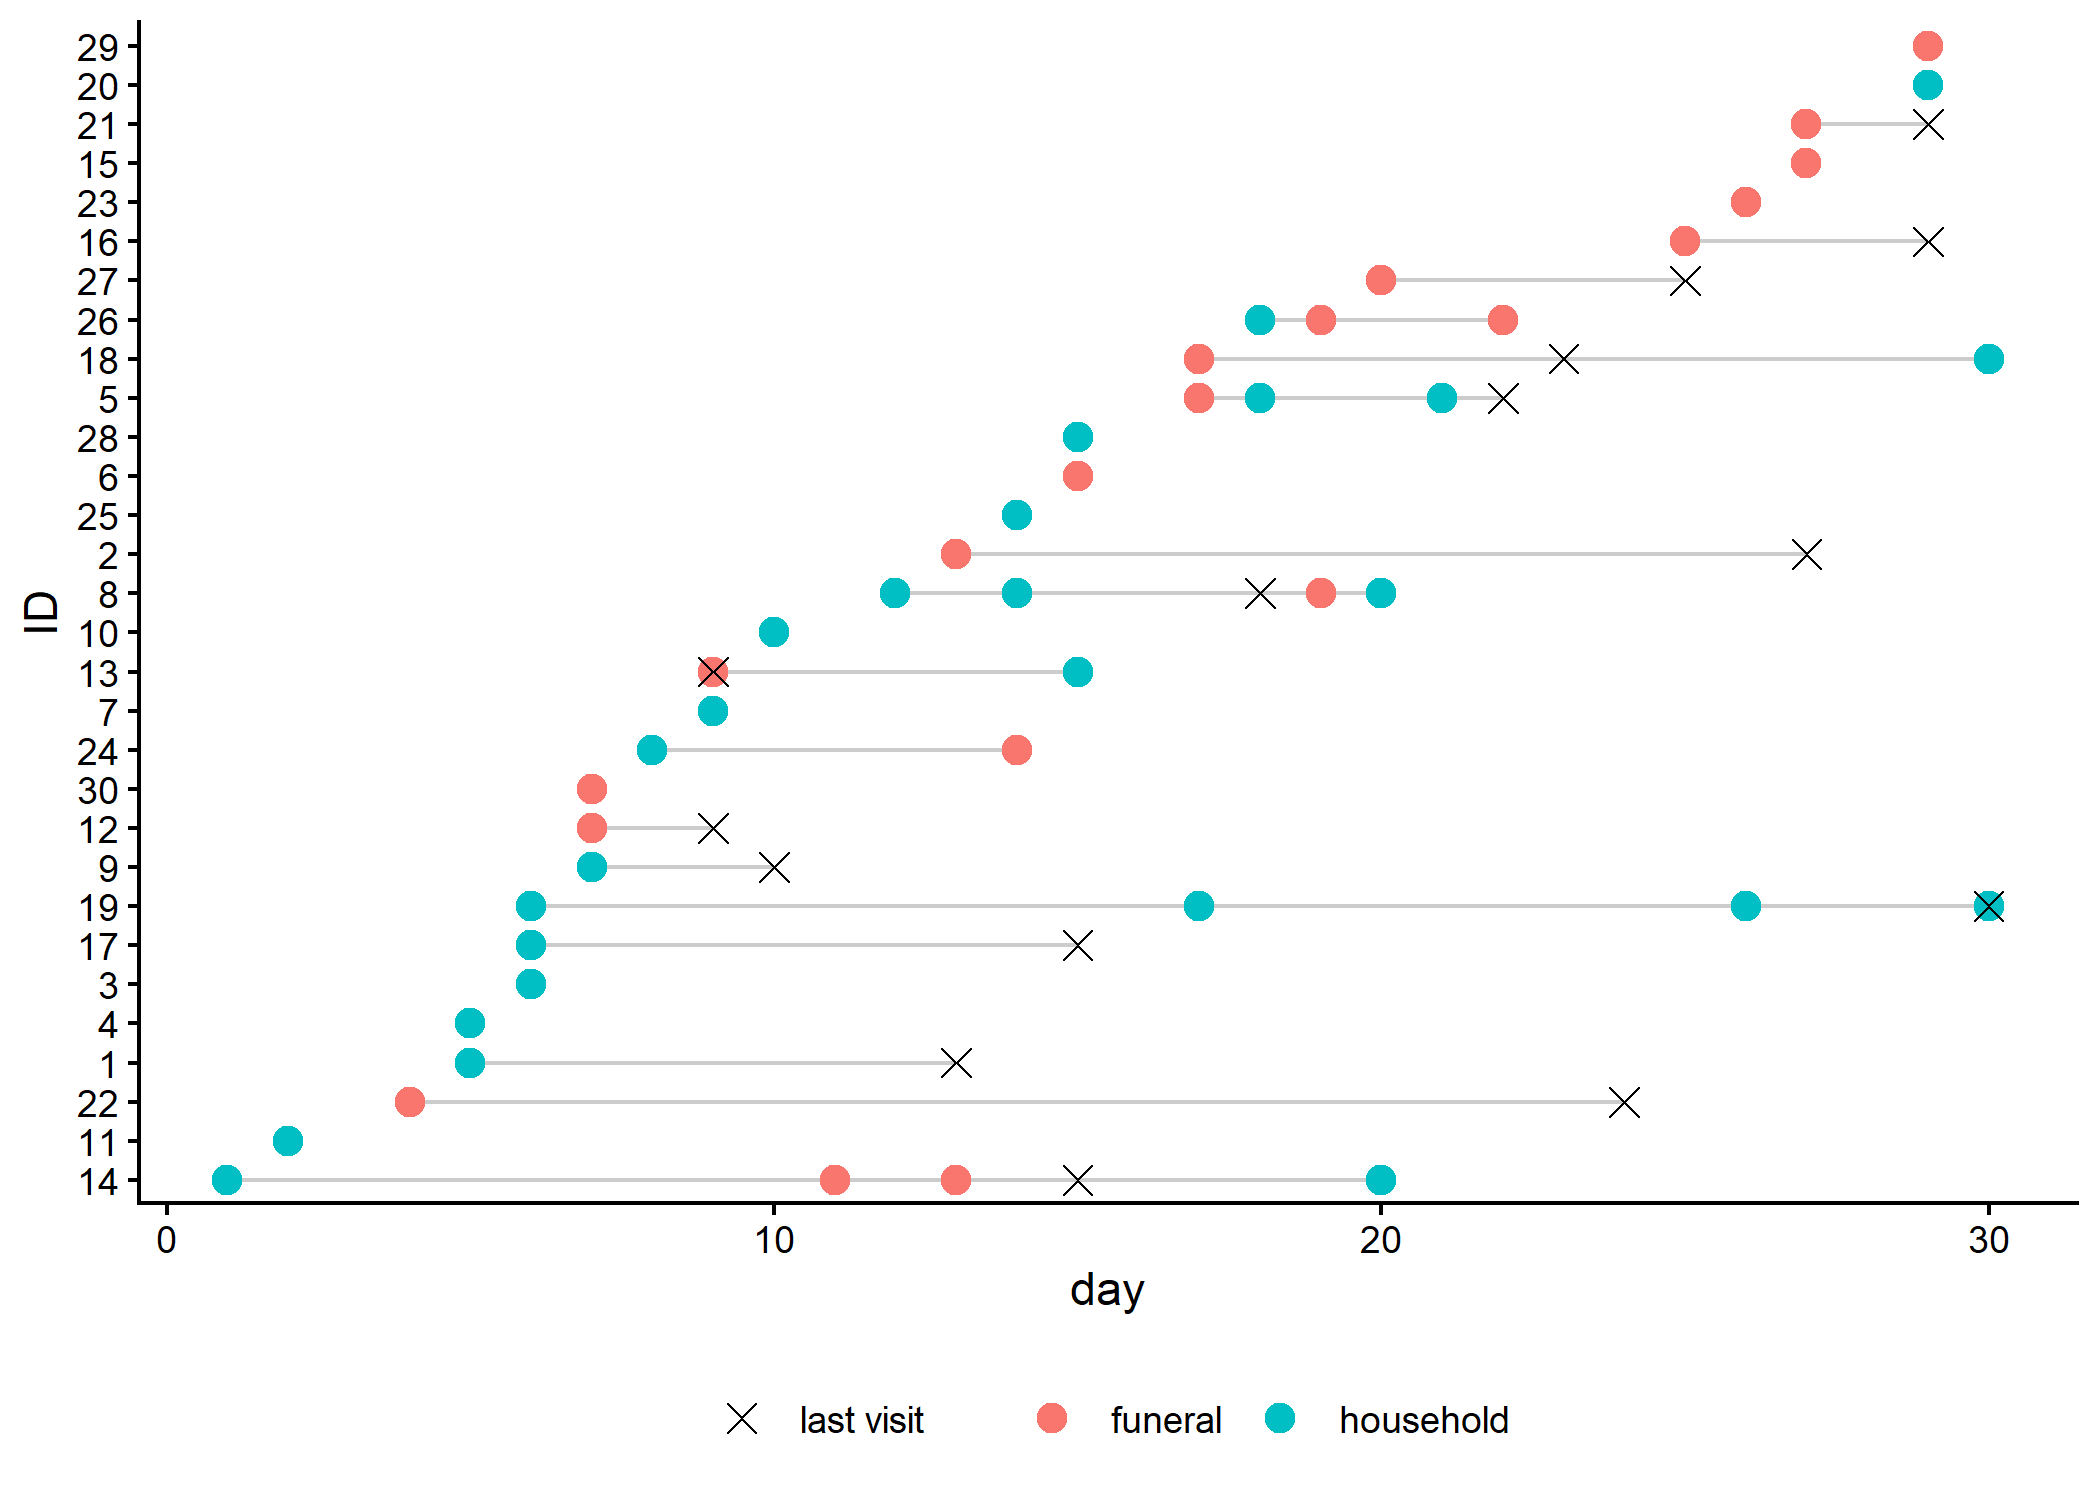
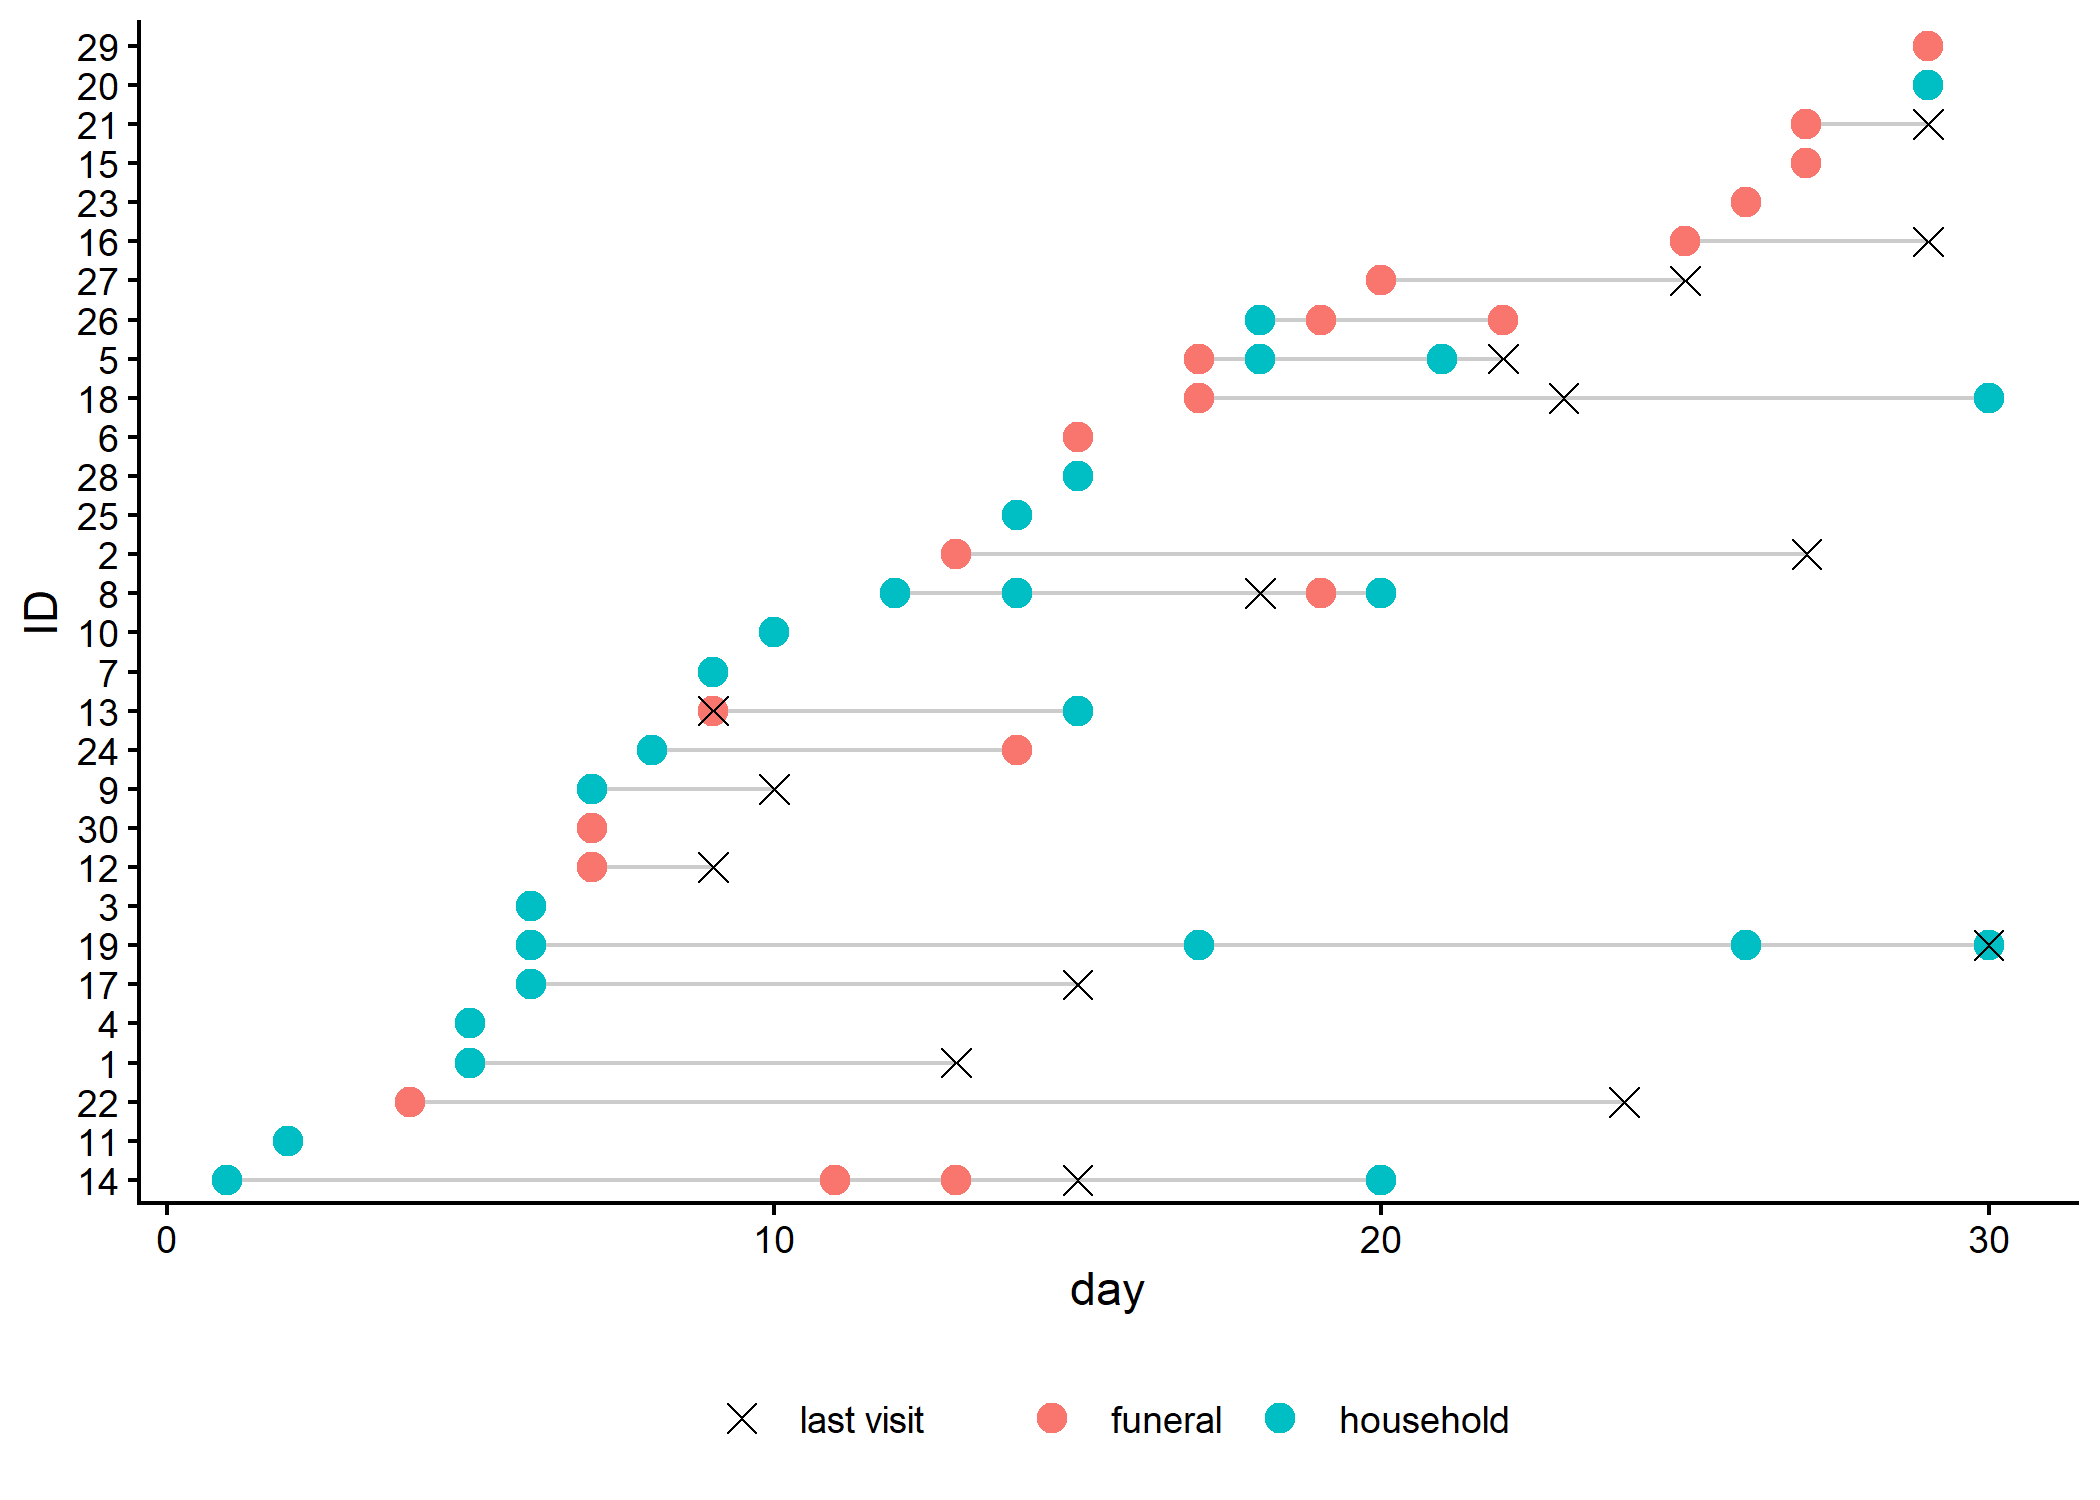
updated readme for new version of ctscore

diff --git a/README.md b/README.md
@@ -106,11 +106,11 @@ x <- make_ctdata(
 head(x)
 #>   contact_id date      type   location last_visit p_infection
 #> 1          1    5 household   new_city         13         0.2
-#> 2          2   13   funeral   new_city         27         0.9
-#> 3          3    6 household local_town         NA         0.2
-#> 4          4    5 household   new_city         NA         0.2
-#> 5          5   17   funeral    hotspot         22         0.9
-#> 6          5   18 household    hotspot         22         0.2
+#> 2         10   10 household local_town         NA         0.2
+#> 3         11    2 household   new_city         NA         0.2
+#> 4         12    7   funeral    hotspot          9         0.9
+#> 5         13    9   funeral local_town          9         0.9
+#> 6         13   15 household local_town          9         0.2
 class(x)
 #> [1] "ctdata"     "data.frame"
 ```
@@ -152,33 +152,72 @@ current date is day 31 (again, this could be a real date in practice, in
 YYYY-MM-DD format):
 
 ``` r
-score <- ctscore(x, incub, t = 31)
+score <- ctscore(x, incub, current_date = 31)
 score
-#>          1          2          3          4          5          6          7 
-#> 0.19854218 0.60000140 0.19969489 0.19991568 0.79604599 0.84927722 0.19844927 
-#>          8          9         10         11         12         13         14 
-#> 0.83344774 0.19871356 0.19772316 0.20028407 0.89463558 0.90958819 0.97174690 
-#>         15         16         17         18         19         20         21 
-#> 0.19870824 0.22232470 0.19754793 0.74628901 0.10752694 0.01314619 0.14895995 
+#>          1         10         11         12         13         14         15 
+#> 0.19854218 0.19772316 0.20028407 0.89463558 0.90958819 0.97174690 0.19870824 
+#>         16         17         18         19          2         20         21 
+#> 0.22232470 0.19754793 0.74628901 0.10752694 0.60000140 0.01314619 0.14895995 
 #>         22         23         24         25         26         27         28 
 #> 0.79589928 0.28480854 0.88870951 0.19158821 0.82388155 0.62067571 0.18872827 
-#>         29         30 
-#> 0.05915784 0.89728078
+#>         29          3         30          4          5          6          7 
+#> 0.05915784 0.19969489 0.89728078 0.19991568 0.79604599 0.84927722 0.19844927 
+#>          8          9 
+#> 0.83344774 0.19871356
 ```
 
 `score` indicates, for each contact, the probability that a visit today
-will lead to detecting a new case. For convenience, we can append this
-score to the contact tracing database, and reorder contacts by
-decreasing order of priority/score:
+will lead to detecting a new case.
+
+For convenience, we can ask `ctscore` to return results in two different
+shapes:
+
+- as a `data.frame` with contact IDs and scores, which is simpler to
+  handle to prioritise individuals
+- as a `ctdata` object with an additional column for the scores appended
+  to the exposure database
 
 ``` r
-## adding scores to the original exposures table
-res_full <- left_join(x, 
-                      tibble(contact_id = as.integer(names(score)),
-                             score = score), 
-                      by = "contact_id") %>% 
+## data.frame of individual scores, sorted by score
+res <- ctscore(x, incub, current_date = 31, out_type = "data.frame") %>% 
+    arrange(desc(score))
+res
+#>    contact_id      score
+#> 14         14 0.97174690
+#> 13         13 0.90958819
+#> 30         30 0.89728078
+#> 12         12 0.89463558
+#> 24         24 0.88870951
+#> 6           6 0.84927722
+#> 8           8 0.83344774
+#> 26         26 0.82388155
+#> 5           5 0.79604599
+#> 22         22 0.79589928
+#> 18         18 0.74628901
+#> 27         27 0.62067571
+#> 2           2 0.60000140
+#> 23         23 0.28480854
+#> 16         16 0.22232470
+#> 11         11 0.20028407
+#> 4           4 0.19991568
+#> 3           3 0.19969489
+#> 9           9 0.19871356
+#> 15         15 0.19870824
+#> 1           1 0.19854218
+#> 7           7 0.19844927
+#> 10         10 0.19772316
+#> 17         17 0.19754793
+#> 25         25 0.19158821
+#> 28         28 0.18872827
+#> 21         21 0.14895995
+#> 19         19 0.10752694
+#> 29         29 0.05915784
+#> 20         20 0.01314619
+
+## ctdata object with scores appended, sorted by score
+res_ctdata <- ctscore(x, incub, current_date = 31, out_type = "ctdata") %>% 
   arrange(desc(score))
-res_full
+res_ctdata
 #>    contact_id date      type   location last_visit p_infection      score
 #> 1          14    1 household    hotspot         15         0.2 0.97174690
 #> 2          14   11   funeral    hotspot         15         0.9 0.97174690
@@ -226,31 +265,6 @@ res_full
 #> 44         19   30 household    hotspot         30         0.2 0.10752694
 #> 45         29   29   funeral local_town         NA         0.9 0.05915784
 #> 46         20   29 household    hotspot         NA         0.2 0.01314619
-
-## same but keeping only contact information (no exposures), simpler to
-## handle to prioritise individuals
-res <- left_join(
-  tibble(contact_id = unique(res_full$contact_id)), 
-  tibble(contact_id = as.integer(names(score)), score = score)
-  ) %>% 
-    arrange(desc(score))
-#> Joining with `by = join_by(contact_id)`
-res
-#> # A tibble: 30 × 2
-#>    contact_id score
-#>         <dbl> <dbl>
-#>  1         14 0.972
-#>  2         13 0.910
-#>  3         30 0.897
-#>  4         12 0.895
-#>  5         24 0.889
-#>  6          6 0.849
-#>  7          8 0.833
-#>  8         26 0.824
-#>  9          5 0.796
-#> 10         22 0.796
-#> # ℹ 20 more rows
-
 
 ## some wrangling needed to keep the order of contacts in the plot
 res %>% 